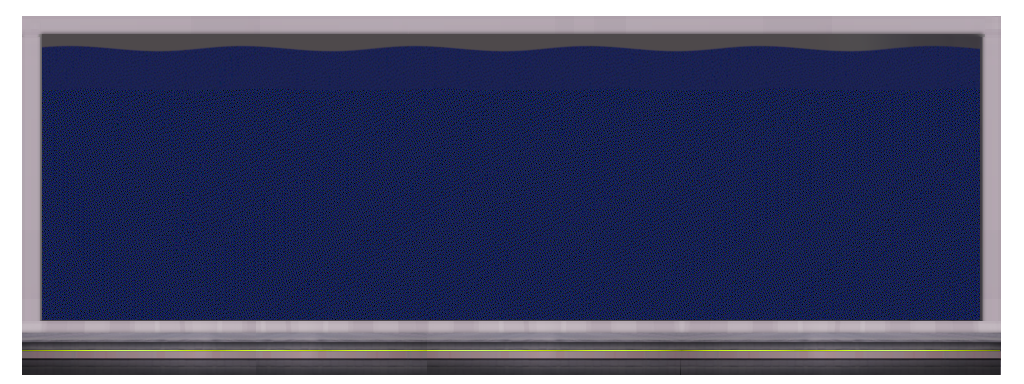
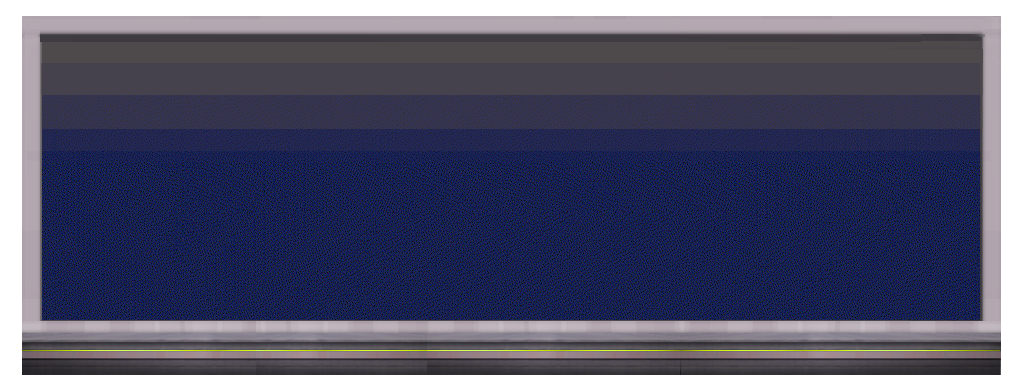
adjust Parnel Qoute position.

Changed region(s): [[0.0312, 0.0938, 0.9688, 0.5625]]

diff --git a/public/js/dm.js b/public/js/dm.js
@@ -21,7 +21,7 @@ let deirDM = [
     <br/><h3>Charles Stewart Parnell</h3><br/>`
     ,
     
-    `According to <a href="https://storyarchaeology.com/" style="color:orangered;">this</a> the "Irish" are "Brits" who absorbed Celtic culture;
+    `According to <a href="https://storyarchaeology.com/" style="color:orangered;">this</a> <br/>the "Irish" are "Brits" who absorbed Celtic culture;
     <br>And the "Brits" are Celts who absorbed Anglo-Saxon Culture.`,
     
     `450 million years ago:<br/>The Island of Ireland was formed when 150 vertical kilometers of "Lorentia"; <br/><img id="avalonian "src="./images/backgrounds/fainne_1.png" style="height:132px; margin-left:90px;">`,
@@ -96,7 +96,7 @@ render = () => {
     console.log(say)
     if(say === sayParnell){
         $('.dm').css('background-image','url(./images/0.png)');
-        $('.dm-says').css('margin-top','-62%');
+        $('.dm-says').css('margin-top','-60%');
         $('.dm-says').css('color','gray');
 
         $('.dm-says').fadeIn(3000);
